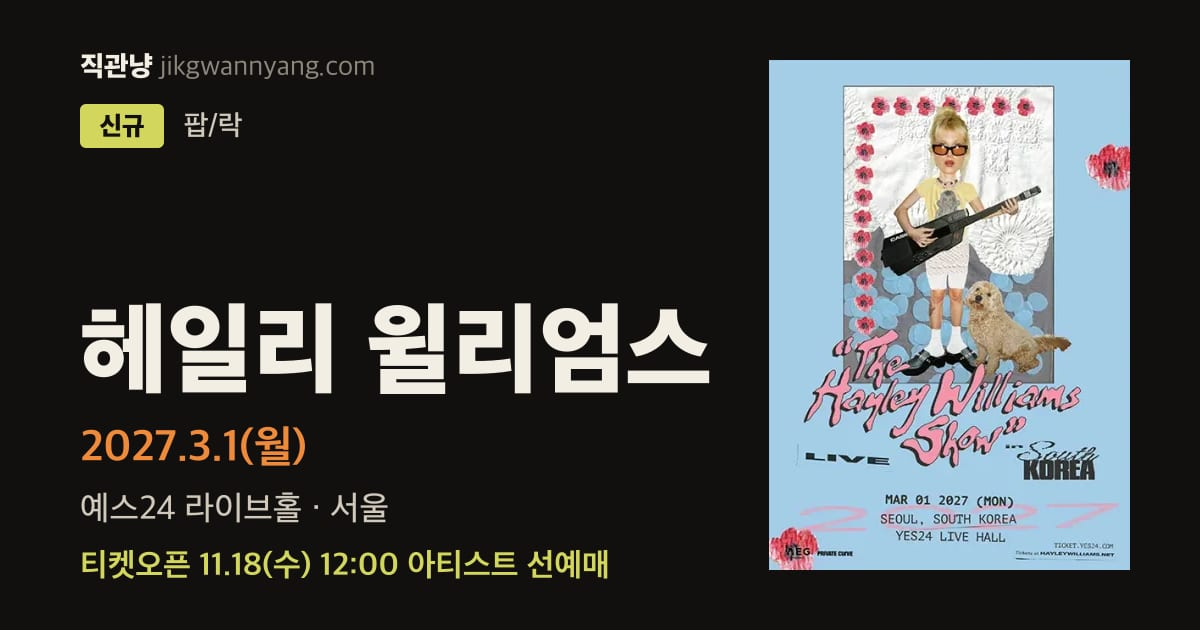
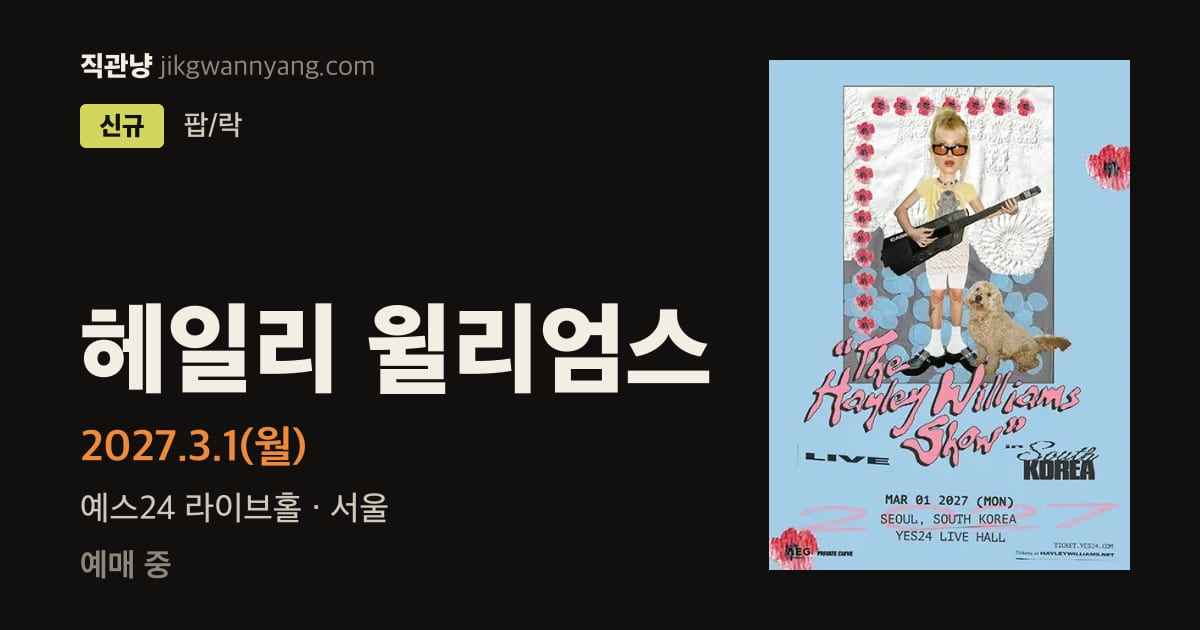
공유 카드: 끝난 공연에 '예매 중'이 찍히던 것 고치고, 날짜가 지난 카드 새로 고침 추가
카드의 상태 줄은 티켓 오픈 단계와 예매 링크만 봐서, 끝난 공연(5SOS 등)에도
'예매 중'이 찍혔다. 또 카드는 공연을 고칠 때만 다시 만들어서, 오픈 시각이 지난
공연에는 지난 '티켓오픈 ○.○'가 그대로 남았다(헤일리 윌리엄스 등).

- 상태 줄: 취소 → '공연 취소', 끝남 → '공연 종료', 예매처에서 판매 종료 확인 →
  '온라인 예매 종료'. 매진은 금방 바뀌어 카드에 적지 않는다.
- `npm run og:cards -- --refresh`: 최근 14일 안에 끝났거나 오픈 단계가 지난 공연 중
  카드가 있는 것만 다시 만든다. 매일 도는 티켓오픈 워치가 돌리도록 절차에 넣었다.
- 이번에 돌린 결과 카드 13장이 바뀌었다(끝난 공연 7, 오픈이 지난 공연 6).

Changed region(s): [[0.0617, 0.8746, 0.5242, 0.9349]]

diff --git a/CLAUDE.md b/CLAUDE.md
@@ -30,6 +30,7 @@
 - `npm run audit:events` — 공연을 추가·수정했으면 ERROR가 없어야 한다.
 - `npm run events:gaps` — 공연을 추가·수정했으면 그 공연에 `!!` 빈틈이 남지 않았는지 본다(아래 "공연 정보 보강").
 - `npm run og:cards -- <공연 id>` — 공연을 새로 넣었거나 공연명·날짜·공연장·티켓오픈·포스터를 바꿨으면 그 공연의 공유 카드(`public/og/`)를 다시 만들어 같이 커밋한다. 작업하는 컴퓨터의 한글 글꼴(맥 Apple SD Gothic Neo, 윈도 맑은 고딕)로 그리기 때문에 Vercel 빌드에서는 만들어지지 않는다.
+  - `npm run og:cards -- --refresh` — 최근 14일 안에 공연이 끝났거나 티켓 오픈 단계가 지난 공연의 카드만 다시 만든다. 카드 문구(티켓오픈 시각·예매 중·공연 종료)는 날짜가 지나면 낡기 때문에 매일 도는 티켓오픈 워치가 돌린다.
 
 ## git 규칙 (모든 세션)
 
